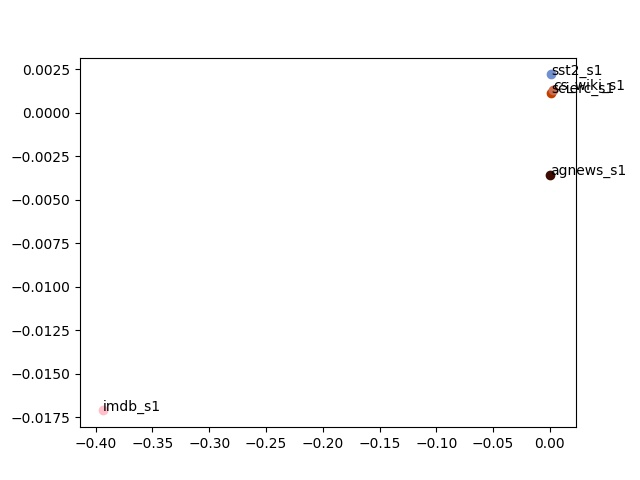
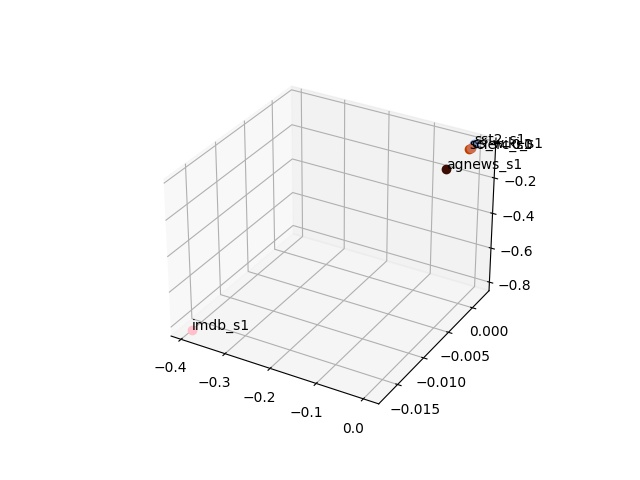
update

diff --git a/draw_cuda_mlmprompt_split.py b/draw_cuda_mlmprompt_split.py
@@ -163,8 +163,8 @@ print("===================")
 print("===================")
 
 ##3D or 2D
-#dim=3
-dim=2
+dim=3
+#dim=2
 
 
 #PCA compress
@@ -251,7 +251,7 @@ blocked_list = []
 #plot on 3D: https://www.delftstack.com/zh-tw/howto/matplotlib/scatter-plot-legend-in-matplotlib/#%25E5%259C%25A8-matplotlib-3d-%25E6%2595%25A3%25E9%25BB%259E%25E5%259C%2596%25E4%25B8%258A%25E6%2596%25B0%25E5%25A2%259E%25E5%259C%2596%25E4%25BE%258B
 
 
-if dim ==3 :
+if dim == 3 :
     axes = plt.subplot(111, projection='3d')
     #axes = plt.subplot(222, projection='3d')
 elif dim == 2:
